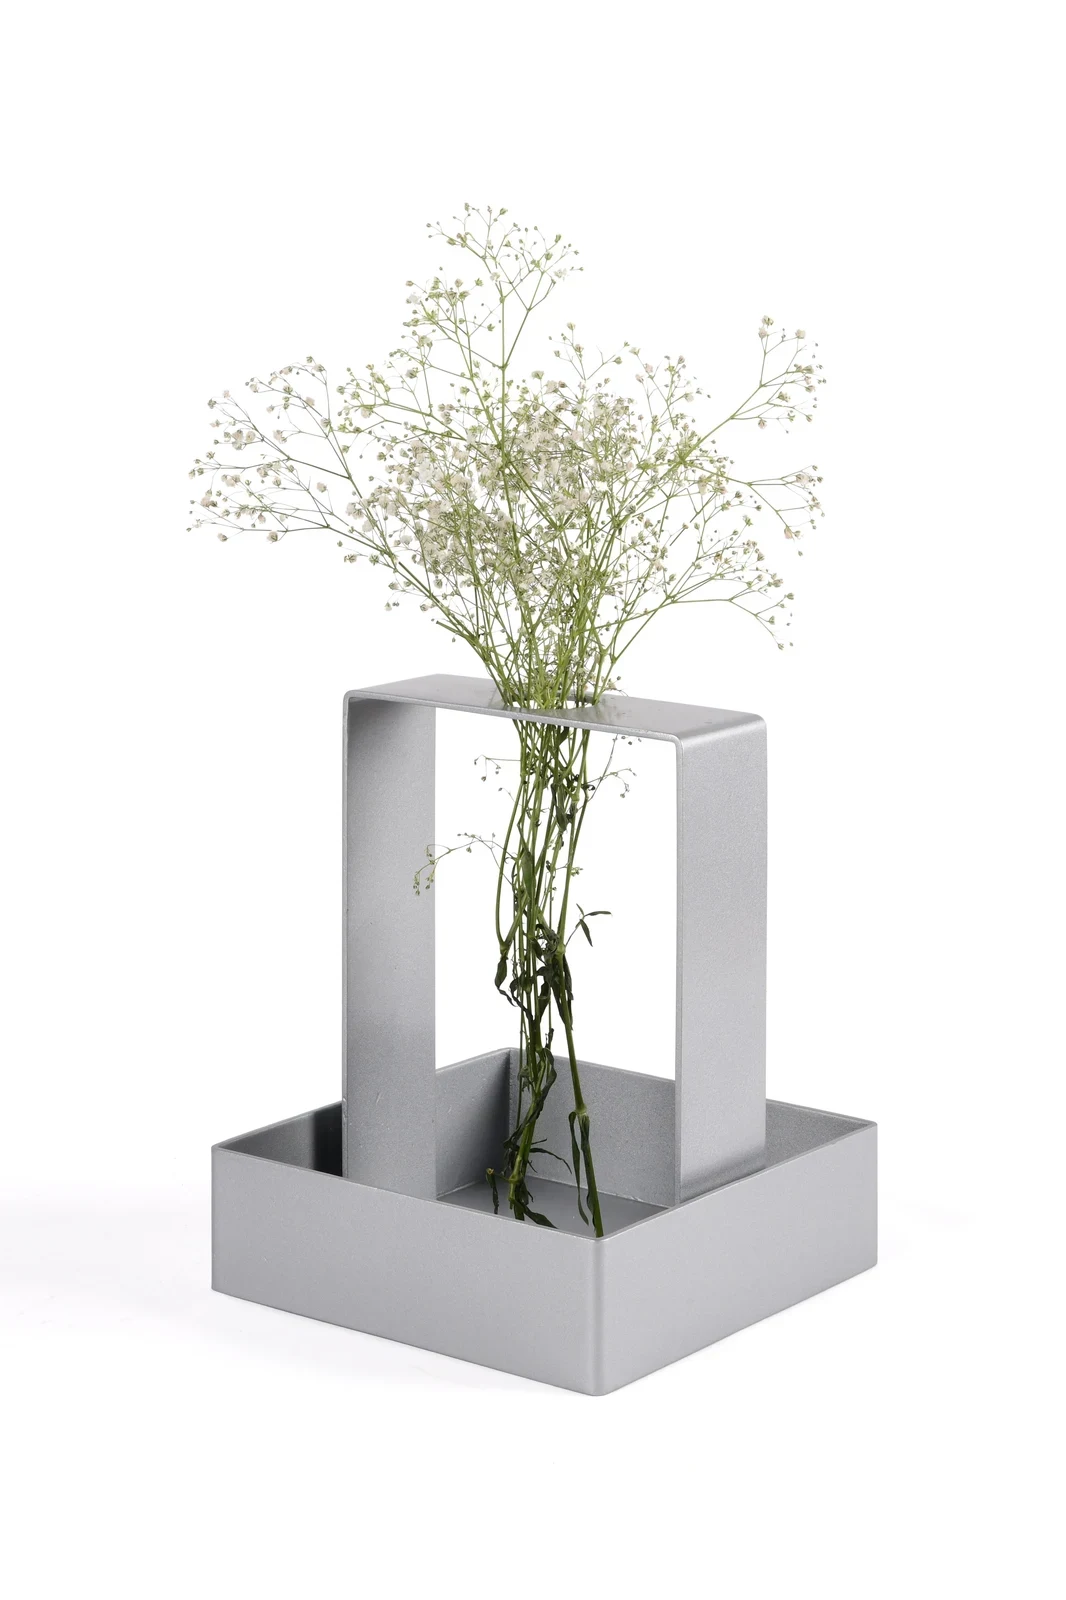
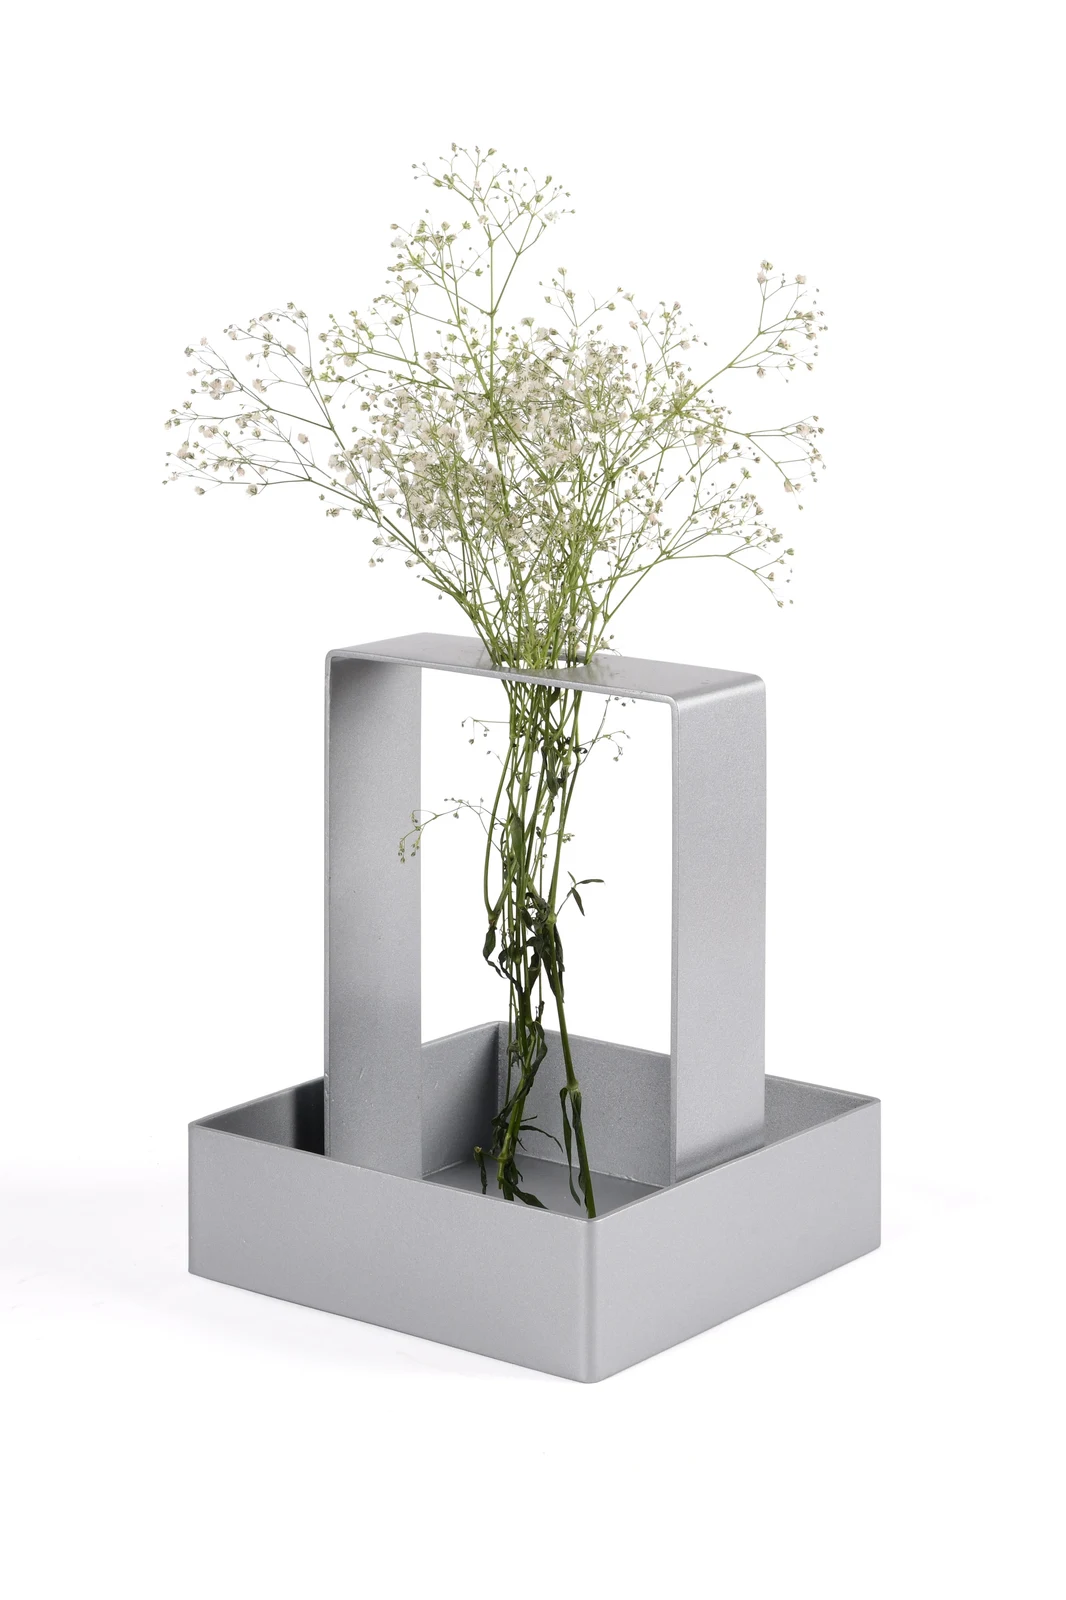
New Maya and Terra photography; remove Aura Vase
Maya and Terra both get fresh studio sets, split by finish so the colour
swatches keep swapping the gallery:

  Maya  Ash Champagne -> two new studio shots + new lifestyle
        Shadow Silver -> two new studio shots, existing lifestyle
  Terra Crimson Red   -> new studio shot, existing lifestyle
        Shadow Silver -> new studio shot + new lifestyle

Aura Vase is removed entirely, including all four sizes and their Shopify
variants. It was also referenced by the homepage signature row, which
resolves products through a findProduct() that throws when a name is
missing -- at module scope, so leaving that entry would have taken down
every page, not just the vases listing. That row is now five products.

Changed region(s): [[0.1548, 0.0938, 0.8358, 0.8125], [0.2477, 0.8125, 0.743, 0.875]]

diff --git a/lib/products.ts b/lib/products.ts
@@ -331,11 +331,10 @@ export const vases: Product[] = [
     dimensions: "20×20×24 cm",
     weight: "1 kg",
     description: "A minimalist sculptural vase that doubles as a work of art. Ideal for single stems or delicate arrangements.",
-    // Champagne has no detail shot of its own yet, so it borrows the silver one.
-    images: [`${B2}/maya-champagne-0.webp`, `${B}/mayavasec2.webp`, "/images/lifestyle%20images/maya-champagne.png"],
+    images: [`${B2}/maya-champagne-0.webp`, `${B2}/maya-champagne-1.webp`, "/images/lifestyle%20images/maya-champagne.png"],
     // Champagne leads so the opening swatch matches the default photos.
     colors: colors(
-      { name: "Ash Champagne", images: [`${B2}/maya-champagne-0.webp`, `${B}/mayavasec2.webp`, "/images/lifestyle%20images/maya-champagne.png"] },
+      { name: "Ash Champagne", images: [`${B2}/maya-champagne-0.webp`, `${B2}/maya-champagne-1.webp`, "/images/lifestyle%20images/maya-champagne.png"] },
       { name: "Shadow Silver", images: [`${B}/mayavasec1.webp`, `${B}/mayavasec2.webp`, "/images/lifestyle%20images/Maya.png"] },
       "Copper Flame",
       "Sunset Gold"
@@ -348,13 +347,13 @@ export const vases: Product[] = [
     dimensions: "11×11×30 cm",
     weight: "1 kg",
     description: "Striking hexagonal silhouette with clean, precise lines. A sophisticated statement piece that stands alone or holds botanicals.",
-    images: [`${B2}/Terra-vase-0.webp`, `${B2}/Terra-vase-1.webp`, "/images/lifestyle%20images/terra.png"],
+    images: [`${B2}/Terra-vase-0.webp`, "/images/lifestyle%20images/terra.png"],
     colors: colors(
-      { name: "Crimson Red", images: [`${B2}/Terra-vase-0.webp`, `${B2}/Terra-vase-1.webp`, "/images/lifestyle%20images/terra.png"] },
+      { name: "Crimson Red", images: [`${B2}/Terra-vase-0.webp`, "/images/lifestyle%20images/terra.png"] },
       "Copper Flame",
       "Sunset Gold",
       // TODO: no Shopify variant for the silver finish yet — it checks out as the base variant.
-      { name: "Shadow Silver", images: [`${B2}/Terra-vase-silver-0.webp`, `${B2}/Terra-vase-silver-1.webp`, "/images/lifestyle%20images/terra-silver.png"] },
+      { name: "Shadow Silver", images: [`${B2}/Terra-vase-silver-0.webp`, "/images/lifestyle%20images/terra-silver.png"] },
       "Black Onyx"
     ),
   },
@@ -367,50 +366,6 @@ export const vases: Product[] = [
     description: "Flowing form with elegant curved panels and a soft, scalloped rim. A versatile accent for any shelf, desk, or tabletop.",
     images: [`${B}/Cala-vase-black0.webp`, `${B}/Cala-vase-black1.webp`, "/images/lifestyle%20images/cala.png"],
     colors: colors("Moss Green", "Crimson Red", "Black Onyx"),
-  },
-  {
-    name: "Aura Vase", shopify: { productId: "gid://shopify/Product/8824409292953", variantId: "gid://shopify/ProductVariant/48361782902937", handle: "aura-vase-set-of-3" },
-    category: "Vases",
-    price: 4500,
-    dimensions: "14×14×30 cm",
-    weight: "3.5 kg",
-    description: "Innovative 3-in-1 modular set with playful wavy rims. Use together as a layered centrepiece or separately as individual accents.",
-    images: [`${B}/Aura-vase-1.webp`, `${B}/Aura-vase-2.webp`, "/images/lifestyle%20images/aura.png"],
-    colors: colors("Espresso", "Sunset Gold", "Pearl White", "Crimson Red"),
-    sizes: [
-      {
-        label: "Set of 3",
-        price: 4500,
-        dimensions: "14×14×30 cm",
-        weight: "3.5 kg",
-        shopify: { productId: "gid://shopify/Product/8824409292953", variantId: "gid://shopify/ProductVariant/48361782902937", handle: "aura-vase-set-of-3" },
-        images: [`${B}/Aura-vase-1.webp`, `${B}/Aura-vase-2.webp`, "/images/lifestyle%20images/aura.png"],
-      },
-      {
-        label: "S",
-        price: 1500,
-        dimensions: "16×16×15 cm",
-        weight: "1 kg",
-        shopify: { productId: "gid://shopify/Product/8824409129113", variantId: "gid://shopify/ProductVariant/48361782673561", handle: "aura-vase-s" },
-        images: [`${B}/Aura-vase-8.webp`, `${B}/Aura-vase-1.webp`, "/images/lifestyle%20images/aura.png"],
-      },
-      {
-        label: "M",
-        price: 1700,
-        dimensions: "15×15×22 cm",
-        weight: "1 kg",
-        shopify: { productId: "gid://shopify/Product/8824409227417", variantId: "gid://shopify/ProductVariant/48361782771865", handle: "aura-vase-m" },
-        images: [`${B}/Aura-vase-7.webp`, `${B}/Aura-vase-1.webp`, "/images/lifestyle%20images/aura.png"],
-      },
-      {
-        label: "L",
-        price: 1900,
-        dimensions: "14×14×30 cm",
-        weight: "1.5 kg",
-        shopify: { productId: "gid://shopify/Product/8824409260185", variantId: "gid://shopify/ProductVariant/48361782870169", handle: "aura-vase-l" },
-        images: [`${B}/Aura-vase-6.webp`, `${B}/Aura-vase-1.webp`, "/images/lifestyle%20images/aura.png"],
-      },
-    ],
   },
 ];
 

diff --git a/components/sections/technology-section.tsx b/components/sections/technology-section.tsx
@@ -69,7 +69,6 @@ const HOME = "/images2/products-home";
 const SIGNATURE_PRODUCTS: { label: string; product: Product; images: [string, string] }[] = [
   { label: "Maison", product: findProduct(wineHolders, "Maison"), images: [`${HOME}/winestand1.webp`, `${HOME}/winestand2.webp`] },
   { label: "Cala", product: findProduct(vases, "Cala Vase"), images: [`${HOME}/wine-vase1.webp`, `${HOME}/wine-vase2.webp`] },
-  { label: "Aura", product: findProduct(vases, "Aura Vase"), images: [`${HOME}/3vase1.webp`, `${HOME}/3vase2.webp`] },
   { label: "Genre", product: findProduct(shelves, "Genre"), images: ["/images/genre-signature.png", "/images2/categories/genre shelf- signature product hover.PNG"] },
   { label: "Nest", product: findProduct(organisers, "Nest Organiser"), images: ["/images/nest-signature.png", "/products1_webp/nest-signature image - hover.png"] },
   { label: "Align", product: findProduct(shoeRacks, "Align"), images: [`${HOME}/alighnshoerack-4.png`, `${HOME}/shoerack2.webp`] },
